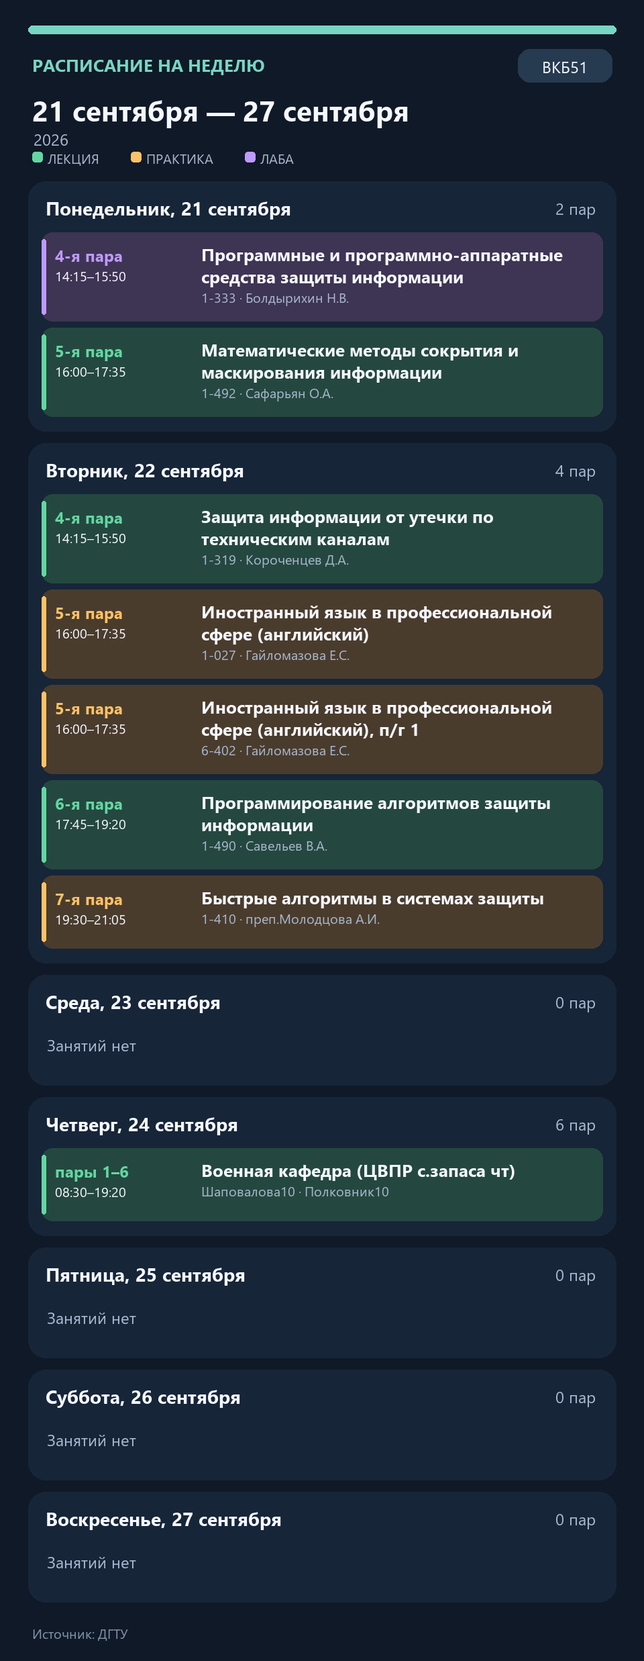
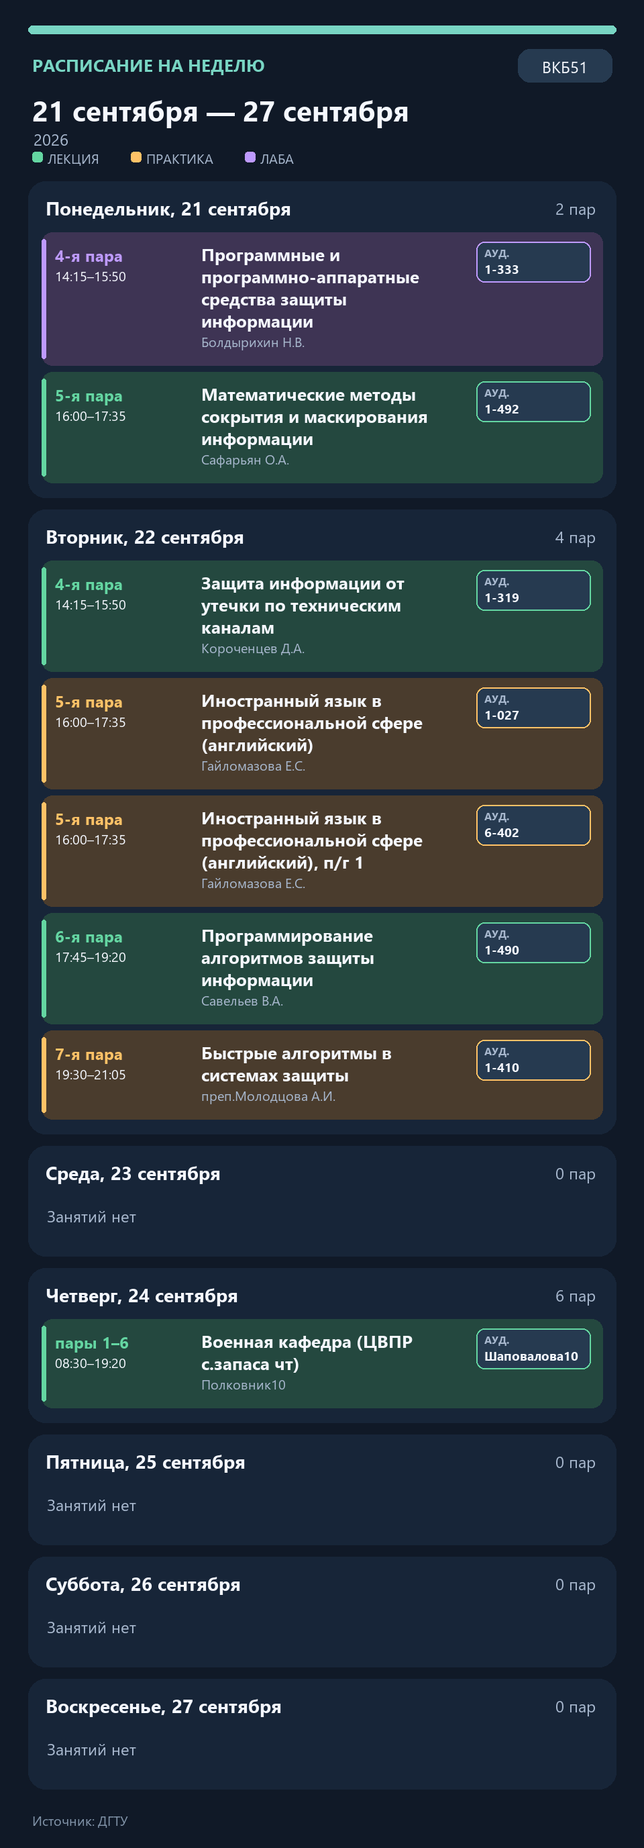
Добавлена навигация кнопками и выделение аудиторий

diff --git a/bot.py b/bot.py
@@ -164,6 +164,21 @@ PAIR_SLOTS = (("08:30", "10:05"), ("10:15", "11:50"), ("12:00", "13:35"),
               ("14:15", "15:50"), ("16:00", "17:35"), ("17:45", "19:20"),
               ("19:30", "21:05"))
 PAIR_INDEX = {start: index for index, (start, _) in enumerate(PAIR_SLOTS)}
+BUTTON_TODAY = "📅 Сегодня"
+BUTTON_TOMORROW = "➡ Завтра"
+BUTTON_PREVIOUS_WEEK = "◀ Неделя"
+BUTTON_CURRENT_WEEK = "🗓 Эта неделя"
+BUTTON_NEXT_WEEK = "Неделя ▶"
+
+
+def telegram_keyboard() -> dict:
+    return {
+        "keyboard": [[{"text": BUTTON_TODAY}, {"text": BUTTON_TOMORROW}],
+                     [{"text": BUTTON_PREVIOUS_WEEK}, {"text": BUTTON_NEXT_WEEK}],
+                     [{"text": BUTTON_CURRENT_WEEK}]],
+        "resize_keyboard": True,
+        "is_persistent": True,
+    }
 
 
 def week_start(date: str) -> str:
@@ -387,7 +402,7 @@ def load_state(path: Path) -> dict:
     if not path.exists():
         return {"snapshot": None, "pending": {"telegram": [], "vk": []},
                 "daily_queued": {}, "weekly_queued": {}, "cards": {},
-                "card_tracking_ready": True, "telegram_offset": 0}
+                "card_tracking_ready": True, "telegram_offset": 0, "telegram_keyboard_version": 0}
     state = json.loads(path.read_text(encoding="utf-8"))
     if not isinstance(state, dict) or not isinstance(state.get("pending"), dict):
         raise RuntimeError("Повреждён файл состояния; восстановите его из копии")
@@ -396,6 +411,7 @@ def load_state(path: Path) -> dict:
     state.setdefault("card_tracking_ready", "cards" in state)
     state.setdefault("cards", {})
     state.setdefault("telegram_offset", 0)
+    state.setdefault("telegram_keyboard_version", 0)
     state.setdefault("snapshot", None)
     for channel in ("telegram", "vk"):
         state["pending"].setdefault(channel, [])
@@ -429,7 +445,11 @@ class Bot:
         self.group_id = int(self.state.get("group_id", self.group_id))
         configured_chat = os.getenv("TELEGRAM_CHAT_ID", "")
         if configured_chat:
-            self.state["telegram_chat_id"] = int(configured_chat)
+            new_chat_id = int(configured_chat)
+            if self.state.get("telegram_chat_id") != new_chat_id:
+                self.state["telegram_keyboard_version"] = 0
+                self.state.pop("telegram_week_cursor", None)
+            self.state["telegram_chat_id"] = new_chat_id
         if self.telegram_token and self.pair_code == "замените-на-свой-секретный-код":
             raise RuntimeError("Замените пример TELEGRAM_PAIR_CODE в .env на свой код")
         if self.telegram_token and not self.state.get("telegram_chat_id") and not self.pair_code:
@@ -462,22 +482,41 @@ class Bot:
                 raise RuntimeError(f"ВКонтакте: {response['error'].get('error_msg')}")
 
     def send_telegram_chat(self, chat_id: int, message: str) -> None:
+        params = {"chat_id": chat_id, "text": message}
+        if chat_id == self.state.get("telegram_chat_id"):
+            params["reply_markup"] = json.dumps(telegram_keyboard(), ensure_ascii=False)
         response = request_json(
             f"https://api.telegram.org/bot{self.telegram_token}/sendMessage",
-            {"chat_id": chat_id, "text": message}, method="POST",
+            params, method="POST",
         )
         if not response.get("ok"):
             raise RuntimeError(f"Telegram: {response.get('description')}")
+        if chat_id == self.state.get("telegram_chat_id"):
+            self.state["telegram_keyboard_version"] = 1
 
     def send_telegram_card(self, chat_id: int, png: bytes, caption: str) -> int | None:
         response = request_json(
             f"https://api.telegram.org/bot{self.telegram_token}/sendPhoto",
-            {"chat_id": chat_id, "caption": caption}, method="POST",
+            {"chat_id": chat_id, "caption": caption,
+             "reply_markup": json.dumps(telegram_keyboard(), ensure_ascii=False)}, method="POST",
             files={"photo": ("raspisanie.png", png, "image/png")},
         )
         if not response.get("ok"):
             raise RuntimeError(f"Telegram: {response.get('description')}")
+        self.state["telegram_keyboard_version"] = 1
         return (response.get("result") or {}).get("message_id")
+
+    def ensure_telegram_keyboard(self) -> None:
+        if not self.telegram_token or not self.state.get("telegram_chat_id"):
+            return
+        if self.state.get("telegram_keyboard_version") == 1:
+            return
+        try:
+            self.send_telegram_chat(self.state["telegram_chat_id"],
+                                    "Кнопки управления расписанием появились ниже. Выберите день или листайте недели.")
+            save_state(self.state_file, self.state)
+        except Exception as exc:
+            LOG.warning("Не удалось показать кнопки Telegram: %s", exc)
 
     def edit_telegram_card(self, chat_id: int, message_id: int, png: bytes, caption: str) -> None:
         response = request_json(
@@ -623,6 +662,29 @@ class Bot:
                 pending.pop(0)
                 save_state(self.state_file, self.state)
 
+    def navigate_week(self, today: str, step: int) -> None:
+        if self.state.get("snapshot") is None:
+            self.send("telegram", "Расписание пока не загружено.")
+            return
+        anchor = self.state.get("telegram_week_cursor") or week_start(today)
+        try:
+            anchor = week_start(anchor)
+        except ValueError:
+            anchor = week_start(today)
+        target = (datetime.fromisoformat(anchor) + timedelta(days=7 * step)).date().isoformat()
+        snapshot = self.state.get("snapshot") or {}
+        if snapshot:
+            dates = [lesson_date(item) for item in snapshot.values()]
+            first, last = week_start(min(dates)), week_start(max(dates))
+            if target < first:
+                self.send("telegram", "Более ранних недель нет в полученном от ДГТУ расписании.")
+                return
+            if target > last:
+                self.send("telegram", "Более поздних недель пока нет в полученном от ДГТУ расписании.")
+                return
+        self.state["telegram_week_cursor"] = target
+        self.send_week("telegram", target)
+
     def telegram_commands(self, today: str) -> None:
         if not self.telegram_token:
             return
@@ -649,7 +711,7 @@ class Bot:
                     if self.pair_code and secrets.compare_digest(argument, self.pair_code):
                         self.state["telegram_chat_id"] = chat_id
                         save_state(self.state_file, self.state)
-                        self.send("telegram", f"Готово! Вы подписаны на расписание {self.group_name}. Команды: /today, /tomorrow, /help.")
+                        self.send("telegram", f"Готово! Вы подписаны на расписание {self.group_name}. Используйте кнопки ниже, чтобы выбрать день или листать недели.")
                         if self.state.get("snapshot") is not None:
                             self.send_schedule("telegram", today)
                             if datetime.now(MOSCOW).strftime("%H:%M") >= self.daily_time:
@@ -657,16 +719,22 @@ class Bot:
                     else:
                         self.send_telegram_chat(chat_id, "Код не подошёл. Отправьте команду /start ПРОБЕЛ ВАШ_КОД — именно с косой чертой и кодом из файла .env.")
                 elif chat_id == self.state.get("telegram_chat_id"):
-                    if verb == "/today":
+                    if verb == "/today" or command == BUTTON_TODAY:
                         self.send_schedule("telegram", today)
-                    elif verb == "/tomorrow":
+                    elif verb == "/tomorrow" or command == BUTTON_TOMORROW:
                         next_day = (datetime.fromisoformat(today) + timedelta(days=1)).date().isoformat()
                         self.send_schedule("telegram", next_day)
-                    elif verb in ("/week", "/nextweek"):
+                    elif verb == "/week" or command == BUTTON_CURRENT_WEEK:
                         monday = week_start(today)
-                        if verb == "/nextweek":
-                            monday = (datetime.fromisoformat(monday) + timedelta(days=7)).date().isoformat()
+                        self.state["telegram_week_cursor"] = monday
                         self.send_week("telegram", monday)
+                    elif verb == "/nextweek":
+                        self.state["telegram_week_cursor"] = week_start(today)
+                        self.navigate_week(today, 1)
+                    elif command == BUTTON_PREVIOUS_WEEK:
+                        self.navigate_week(today, -1)
+                    elif command == BUTTON_NEXT_WEEK:
+                        self.navigate_week(today, 1)
                     elif verb in ("/today_text", "/tomorrow_text"):
                         date = today if verb == "/today_text" else (datetime.fromisoformat(today) + timedelta(days=1)).date().isoformat()
                         message = (day_message(self.state["snapshot"], date, self.group_name)
@@ -674,7 +742,7 @@ class Bot:
                         for part in split_message(message):
                             self.send("telegram", part)
                     elif verb in ("/start", "/help"):
-                        self.send("telegram", "Команды: /today, /tomorrow — карточки на день; /week, /nextweek — на неделю; /today_text, /tomorrow_text — текст. Карточки обновляются при изменениях.")
+                        self.send("telegram", "Выберите день или листайте недели кнопками ниже. Команды /today, /tomorrow, /week и /nextweek тоже работают; /today_text и /tomorrow_text дают текст.")
                 save_state(self.state_file, self.state)
         except Exception as exc:
             LOG.error("Ошибка обработки команд Telegram: %s", exc)
@@ -735,6 +803,7 @@ class Bot:
         except Exception as exc:
             LOG.error("Не удалось обновить расписание: %s", exc)
         self.telegram_commands(today)
+        self.ensure_telegram_keyboard()
         self.drain(today)
 
 

diff --git a/card.py b/card.py
@@ -76,7 +76,6 @@ def wrap(draw: ImageDraw.ImageDraw, value: str, face: ImageFont.FreeTypeFont, ma
 
 def prepare_layout(group_name: str, date: str, blocks: list[dict], slot_count: int) -> tuple[list[dict], int]:
     measure = ImageDraw.Draw(Image.new("RGB", (WIDTH, 100), BACKGROUND))
-    title_font = font(32, True)
     detail_font = font(24)
     layout = []
     y = 276
@@ -86,7 +85,12 @@ def prepare_layout(group_name: str, date: str, blocks: list[dict], slot_count: i
             layout.append({"block": block, "y": y, "height": height})
             y += height + 20
             continue
-        title_lines = wrap(measure, block["subject"], title_font, 740)
+        room_lines = (wrap(measure, str(block["place"]), font(25, True), 184)
+                      if block.get("place") else [])
+        room_height = 44 + len(room_lines) * 32 if room_lines else 0
+        title_font = font(30 if room_lines else 32, True)
+        title_lines = wrap(measure, block["subject"], title_font, 540 if room_lines else 740)
+        title_span = max(len(title_lines) * 43, room_height)
         details = []
         if len(block["starts"]) > 1:
             starts = [f"{number}-я {start}" if number else start
@@ -94,8 +98,6 @@ def prepare_layout(group_name: str, date: str, blocks: list[dict], slot_count: i
             details.append(("ПО ПАРАМ", " · ".join(starts)))
         if block.get("teacher"):
             details.append(("ПРЕПОДАВАТЕЛЬ", block["teacher"]))
-        if block.get("place"):
-            details.append(("МЕСТО", block["place"]))
         if block.get("subgroup"):
             details.append(("ПОДГРУППА", str(block["subgroup"])))
         if block.get("theme"):
@@ -103,8 +105,11 @@ def prepare_layout(group_name: str, date: str, blocks: list[dict], slot_count: i
         if block.get("link"):
             details.append(("ССЫЛКА", block["link"]))
         detail_rows = [(label, wrap(measure, value, detail_font, 610)) for label, value in details]
-        height = 126 + len(title_lines) * 43 + sum(max(35, len(lines) * 33) + 9 for _, lines in detail_rows) + 25
-        layout.append({"block": block, "y": y, "height": height, "title_lines": title_lines, "details": detail_rows})
+        height = 126 + title_span + sum(max(35, len(lines) * 33) + 9 for _, lines in detail_rows) + 25
+        layout.append({"block": block, "y": y, "height": height, "title_lines": title_lines,
+                       "title_span": title_span, "room_lines": room_lines, "room_height": room_height,
+                       "title_font_size": 30 if room_lines else 32,
+                       "details": detail_rows})
         y += height + 20
     if not blocks:
         y += 220
@@ -176,9 +181,17 @@ def render_card(group_name: str, date: str, blocks: list[dict], slot_count: int)
         draw.text((904 - chip_width, y1 + 34), type_text, font=regular_22, fill=accent)
         title_y = y1 + 91
         for line in row["title_lines"]:
-            draw.text((78, title_y), line, font=bold_32, fill=WHITE)
+            draw.text((78, title_y), line, font=font(row["title_font_size"], True), fill=WHITE)
             title_y += 43
-        title_y += 15
+        if row["room_lines"]:
+            room_top = y1 + 91
+            draw.rounded_rectangle((662, room_top, 886, room_top + row["room_height"]),
+                                   radius=18, fill="#263A50", outline=accent, width=2)
+            draw.text((678, room_top + 9), "АУДИТОРИЯ", font=font(18, True), fill=MUTED)
+            for index, line in enumerate(row["room_lines"]):
+                draw.text((678, room_top + 37 + index * 32), line,
+                          font=font(25, True), fill=WHITE)
+        title_y = y1 + 91 + row["title_span"] + 15
         for label, lines in row["details"]:
             draw.text((78, title_y), label, font=regular_22, fill=MUTED)
             label_width = text_width(draw, label, regular_22)
@@ -206,11 +219,19 @@ def render_week_card(group_name: str, monday: str, days: list[dict]) -> bytes:
             if block.get("window"):
                 rows.append({"block": block, "height": 66})
             else:
-                title_lines = wrap(measure, block["subject"], title_font, 575)
-                detail = " · ".join(str(part) for part in (block.get("place", ""), block.get("teacher", "")) if part)
-                detail_lines = wrap(measure, detail, font(20), 575) if detail else []
-                rows.append({"block": block, "height": max(108, 24 + len(title_lines) * 33 + len(detail_lines) * 26 + 16),
-                             "title_lines": title_lines, "detail_lines": detail_lines})
+                has_room = bool(block.get("place"))
+                text_width_limit = 390 if has_room else 575
+                title_lines = wrap(measure, block["subject"], title_font, text_width_limit)
+                teacher_lines = (wrap(measure, str(block["teacher"]), font(20), text_width_limit)
+                                 if block.get("teacher") else [])
+                room_lines = (wrap(measure, str(block["place"]), font(19, True), 148)
+                              if has_room else [])
+                room_height = 32 + len(room_lines) * 28 if room_lines else 0
+                rows.append({"block": block,
+                             "height": max(108, 24 + len(title_lines) * 33 + len(teacher_lines) * 26 + 16,
+                                           28 + room_height),
+                             "title_lines": title_lines, "teacher_lines": teacher_lines,
+                             "room_lines": room_lines, "room_height": room_height})
         section_height = 76 + (sum(row["height"] + 10 for row in rows) if rows else 76) + 12
         layouts.append({"day": day, "rows": rows, "y": y, "height": section_height})
         y += section_height + 18
@@ -276,9 +297,17 @@ def render_week_card(group_name: str, monday: str, days: list[dict]) -> bytes:
                     draw.text((300, title_y), line, font=title_font, fill=WHITE)
                     title_y += 33
                 detail_y = title_y + 3
-                for line in row["detail_lines"]:
+                for line in row["teacher_lines"]:
                     draw.text((300, detail_y), line, font=small, fill=MUTED)
                     detail_y += 26
+                if row["room_lines"]:
+                    room_top = ry + 14
+                    draw.rounded_rectangle((710, room_top, 880, room_top + row["room_height"]),
+                                           radius=12, fill="#263A50", outline=accent, width=2)
+                    draw.text((722, room_top + 5), "АУД.", font=font(16, True), fill=MUTED)
+                    for index, line in enumerate(row["room_lines"]):
+                        draw.text((722, room_top + 27 + index * 28), line,
+                                  font=font(19, True), fill=WHITE)
             ry += h + 10
     draw.text((48, height - 55), "Источник: ДГТУ", font=small, fill="#8294A9")
     output = io.BytesIO()

diff --git a/test_bot.py b/test_bot.py
@@ -10,7 +10,9 @@ from unittest.mock import patch
 import requests
 from PIL import Image
 
-from bot import Bot, changes_message, day_message, normalize_lesson, proxy_for_url, request_json, schedule_card, split_message, week_card
+from bot import (BUTTON_CURRENT_WEEK, BUTTON_NEXT_WEEK, BUTTON_PREVIOUS_WEEK, Bot,
+                 changes_message, day_message, normalize_lesson, proxy_for_url,
+                 request_json, schedule_card, split_message, week_card)
 
 
 def lesson(code=1, room="101", start="2026-09-24T09:00:00"):
@@ -102,6 +104,39 @@ class ScheduleTests(unittest.TestCase):
                     app.send_schedule("telegram", "2026-09-24")
                 self.assertIn("/sendPhoto", send.call_args.args[0])
                 self.assertEqual(send.call_args.kwargs["files"]["photo"][2], "image/png")
+                markup = json.loads(send.call_args.args[1]["reply_markup"])
+                self.assertTrue(markup["is_persistent"])
+                labels = [button["text"] for row in markup["keyboard"] for button in row]
+                self.assertIn(BUTTON_PREVIOUS_WEEK, labels)
+                self.assertIn(BUTTON_NEXT_WEEK, labels)
+
+    def test_existing_chat_gets_navigation_keyboard_once(self):
+        with TemporaryDirectory() as temp:
+            with patch.dict("os.environ", {"TELEGRAM_BOT_TOKEN": "test-token", "TELEGRAM_CHAT_ID": "42"}, clear=True):
+                app = Bot(Path(temp))
+                with patch("bot.request_json", return_value={"ok": True}) as api:
+                    app.ensure_telegram_keyboard()
+                    app.ensure_telegram_keyboard()
+                self.assertEqual(api.call_count, 1)
+                markup = json.loads(api.call_args.args[1]["reply_markup"])
+                self.assertTrue(markup["resize_keyboard"])
+                self.assertEqual(app.state["telegram_keyboard_version"], 1)
+
+    def test_week_buttons_can_browse_multiple_past_weeks(self):
+        with TemporaryDirectory() as temp:
+            with patch.dict("os.environ", {"TELEGRAM_BOT_TOKEN": "test-token", "TELEGRAM_CHAT_ID": "42"}, clear=True):
+                app = Bot(Path(temp))
+                app.state["snapshot"] = {"1": lesson(start="2026-09-01T09:00:00"), "2": lesson(code=2)}
+                labels = [BUTTON_CURRENT_WEEK, BUTTON_PREVIOUS_WEEK,
+                          BUTTON_PREVIOUS_WEEK, BUTTON_NEXT_WEEK]
+                updates = [{"update_id": index, "message": {"chat": {"id": 42, "type": "private"}, "text": label}}
+                           for index, label in enumerate(labels, 1)]
+                with patch("bot.request_json", return_value={"ok": True, "result": updates}), \
+                     patch.object(app, "send_week") as send_week:
+                    app.telegram_commands("2026-09-24")
+                dates = [call.args[1] for call in send_week.call_args_list]
+                self.assertEqual(dates, ["2026-09-21", "2026-09-14", "2026-09-07", "2026-09-14"])
+                self.assertEqual(app.state["telegram_week_cursor"], "2026-09-14")
 
     def test_week_command_sends_current_week_card(self):
         with TemporaryDirectory() as temp:

diff --git a/README.md b/README.md
@@ -1,6 +1,6 @@
 # Бот расписания ВКБ51
 
-Бот получает расписание группы с [сайта ДГТУ](https://edu.donstu.ru/WebApp/#/Rasp/Group/72244), проверяет его каждые 5 минут и присылает конкретные изменения: добавление, удаление, перенос, смену преподавателя или аудитории. В 08:00 по Москве присылает расписание на текущий день **картинкой-карточкой**, а по понедельникам — карточку текущей недели. Telegram и ВКонтакте можно включить одновременно. На карточках лекции зелёные, практики жёлто-оранжевые, лабораторные фиолетовые. Свободные пары между занятиями показаны как окна. Если отправить картинку не удалось, бот попробует прислать расписание текстом.
+Бот получает расписание группы с [сайта ДГТУ](https://edu.donstu.ru/WebApp/#/Rasp/Group/72244), проверяет его каждые 5 минут и присылает конкретные изменения: добавление, удаление, перенос, смену преподавателя или аудитории. В 08:00 по Москве присылает расписание на текущий день **картинкой-карточкой**, а по понедельникам — карточку текущей недели. Telegram и ВКонтакте можно включить одновременно. На карточках лекции зелёные, практики жёлто-оранжевые, лабораторные фиолетовые; аудитория выделена справа от предмета. Свободные пары между занятиями показаны как окна. Если отправить картинку не удалось, бот попробует прислать расписание текстом.
 
 Примеры: [карточка дня](preview.png), [неделя](preview_week.png), [день с окном](preview_windows.png).
 
@@ -39,7 +39,9 @@ python bot.py
 3. Замените пример `TELEGRAM_PAIR_CODE` на случайный секретный код (например, длинную комбинацию букв и цифр).
 4. После запуска откройте своего бота и отправьте ему `/start ВАШ_КОД`. Он запомнит этот личный чат и пришлёт расписание на сегодня.
 
-Команды `/today` и `/tomorrow` возвращают карточку дня, `/week` и `/nextweek` — карточку текущей или следующей недели. Для текстового варианта используйте `/today_text` и `/tomorrow_text`. Если ID чата уже известен, можно указать `TELEGRAM_CHAT_ID` вместо кода сопряжения. Чтобы сменить привязанный чат, остановите бота, удалите поле `telegram_chat_id` из `data/state.json` и запустите снова.
+После сопряжения бот показывает **постоянные кнопки вместо обычной клавиатуры**: «Сегодня», «Завтра», «◀ Неделя», «Неделя ▶», «Эта неделя». Стрелки листают от открытой недели, поэтому можно пройти несколько недель назад и затем вернуться вперёд. Бот хранит выбранную неделю после перезапуска. Предел прокрутки — первая и последняя недели в доступном ответе ДГТУ; за этим пределом бот скажет, что данных нет. У уже привязанного чата кнопки появятся сразу после перезапуска обновлённого бота.
+
+Старые команды также работают: `/today` и `/tomorrow` возвращают карточку дня, `/week` и `/nextweek` — карточку текущей или следующей недели. Для текстового варианта используйте `/today_text` и `/tomorrow_text`. Если ID чата уже известен, можно указать `TELEGRAM_CHAT_ID` вместо кода сопряжения. Чтобы сменить привязанный чат, остановите бота, удалите поле `telegram_chat_id` из `data/state.json` и запустите снова.
 
 ## ВКонтакте
 
@@ -47,7 +49,7 @@ python bot.py
 2. Напишите сообществу личное сообщение со своего аккаунта, чтобы оно могло отвечать вам.
 3. Укажите токен в `VK_COMMUNITY_TOKEN`, а свой числовой ID ВКонтакте (например, `123456` из адреса `vk.com/id123456`) в `VK_PEER_ID`.
 
-ВКонтакте бот отправляет ежедневную и еженедельную карточки, а также изменения в личные сообщения. Команды по запросу реализованы в Telegram. Для карточки бот загружает фото через API ВКонтакте; сообщения сообщества должны быть включены.
+ВКонтакте бот отправляет ежедневную и еженедельную карточки, а также изменения в личные сообщения. Навигационные кнопки реализованы в Telegram. Для карточки бот загружает фото через API ВКонтакте; сообщения сообщества должны быть включены.
 
 ## Прокси
 
